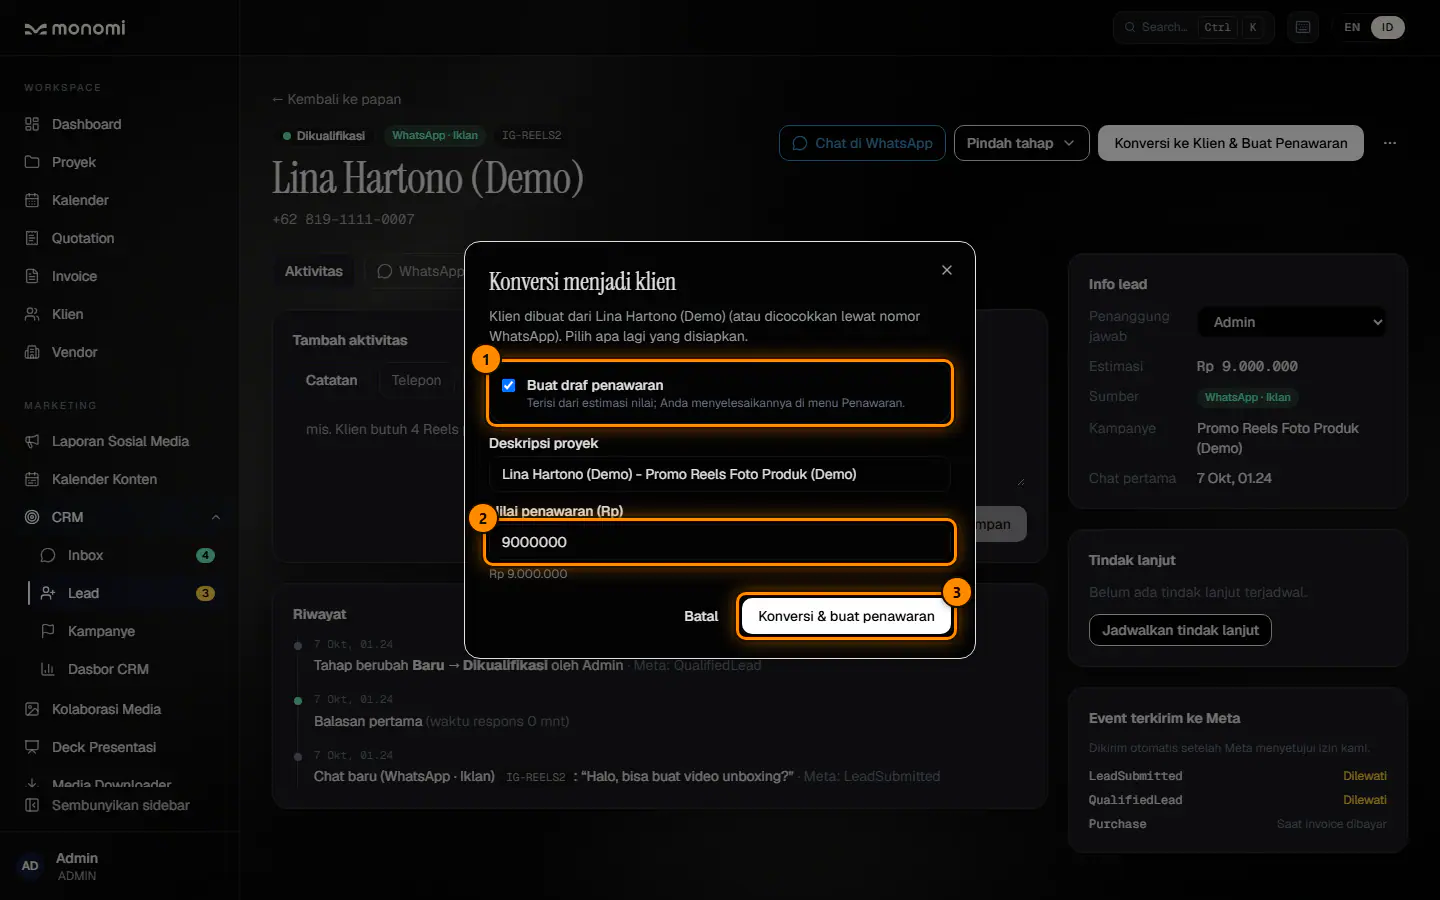
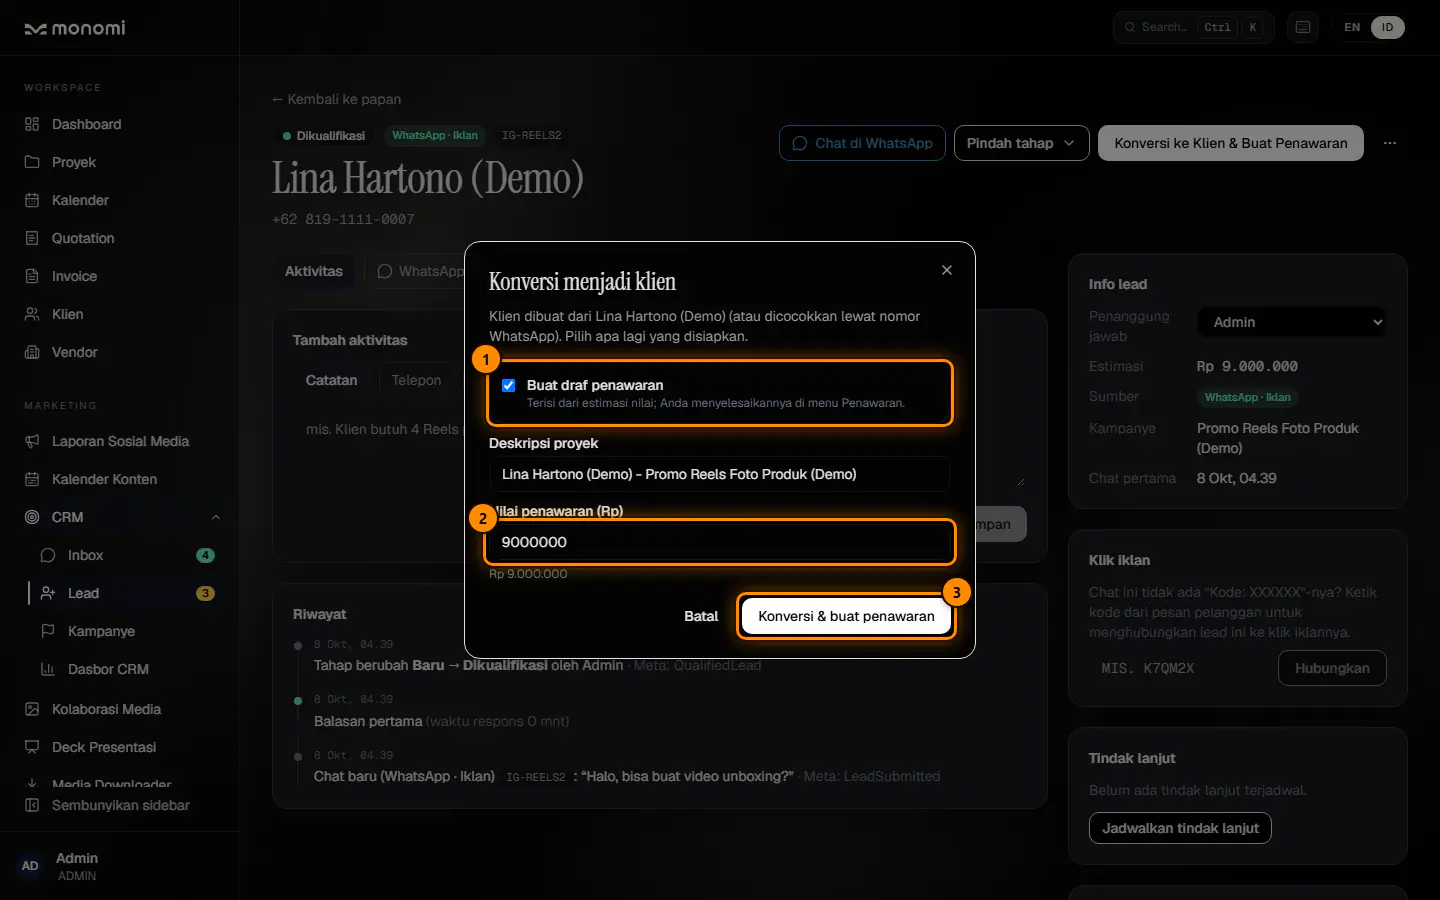
feat(guides): recapture outdated screenshots, add pictures to text-only CRM and setup steps
- recaptured crm-leads-whatsapp (all steps), crm-whatsapp-inbox/tab-lead, konten-monomi (klien-monomi, planner-monomi), portal-klien (kartu, tambah-kontak, aktif-undang, dilihat-klien), membaca-laporan/daftar, klien-baru (riwayat, riwayat-invoice), dashboard-navigasi/menu (CRM group and collapse button visible), pintasan-keyboard/bantuan (CRM shortcuts) and laporan-bulanan/bagian-data (4th mode "Ambil dari Instagram")
- new steps with screenshots: crm-leads-whatsapp link-iklan-website, kode-chat, lead-menunggu-wa; crm-whatsapp-setup pelacakan-landing-page, sinkronisasi-meta-ads (domain-verifikasi and kampanye-website stay text-only: they happen in Meta, there is no app screen)
- callout numbers added to the converted steps' id/en text
- image manifest: drop entries without a file (call-sheet/editor, jadwal-syuting/otomatis-sebelum, shot-list/editor) and the unreferenced dashboard-navigasi/bahasa-en

Claude-Session: https://claude.ai/code/session_01WCLH2UVTxmQDnNdwgagFuz

diff --git a/frontend/src/guides/imageManifest.ts b/frontend/src/guides/imageManifest.ts
@@ -60,10 +60,6 @@ export const guideImageManifest: Partial<Record<string, { w: number; h: number }
     "w": 1280,
     "h": 820
   },
-  "call-sheet/editor": {
-    "w": 1280,
-    "h": 820
-  },
   "call-sheet/info": {
     "w": 1280,
     "h": 820
@@ -100,7 +96,19 @@ export const guideImageManifest: Partial<Record<string, { w: number; h: number }
     "w": 1440,
     "h": 900
   },
+  "crm-leads-whatsapp/kode-chat": {
+    "w": 1440,
+    "h": 900
+  },
   "crm-leads-whatsapp/konversi": {
+    "w": 1440,
+    "h": 900
+  },
+  "crm-leads-whatsapp/lead-menunggu-wa": {
+    "w": 1440,
+    "h": 900
+  },
+  "crm-leads-whatsapp/link-iklan-website": {
     "w": 1440,
     "h": 900
   },
@@ -200,6 +208,14 @@ export const guideImageManifest: Partial<Record<string, { w: number; h: number }
     "w": 1440,
     "h": 900
   },
+  "crm-whatsapp-setup/pelacakan-landing-page": {
+    "w": 1440,
+    "h": 900
+  },
+  "crm-whatsapp-setup/sinkronisasi-meta-ads": {
+    "w": 1440,
+    "h": 900
+  },
   "crm-whatsapp-setup/tidak-valid": {
     "w": 1440,
     "h": 900
@@ -212,17 +228,13 @@ export const guideImageManifest: Partial<Record<string, { w: number; h: number }
     "w": 1280,
     "h": 820
   },
-  "dashboard-navigasi/bahasa-en": {
-    "w": 1280,
-    "h": 820
-  },
   "dashboard-navigasi/dashboard": {
     "w": 1280,
     "h": 820
   },
   "dashboard-navigasi/menu": {
     "w": 1280,
-    "h": 820
+    "h": 1680
   },
   "dashboard-navigasi/palet": {
     "w": 1280,
@@ -341,10 +353,6 @@ export const guideImageManifest: Partial<Record<string, { w: number; h: number }
     "h": 820
   },
   "jadwal-syuting/otomatis": {
-    "w": 1280,
-    "h": 820
-  },
-  "jadwal-syuting/otomatis-sebelum": {
     "w": 1280,
     "h": 820
   },
@@ -829,10 +837,6 @@ export const guideImageManifest: Partial<Record<string, { w: number; h: number }
     "h": 820
   },
   "shot-list/daftar": {
-    "w": 1280,
-    "h": 820
-  },
-  "shot-list/editor": {
     "w": 1280,
     "h": 820
   },

diff --git a/frontend/src/guides/staff/admin.ts b/frontend/src/guides/staff/admin.ts
@@ -16,17 +16,17 @@ export const adminGuides: GuideDef[] = [
   {
     slug: 'crm-whatsapp-setup', audience: 'staff', topic: 'admin', icon: ShieldCheck, minutes: 8, adminOnly: true,
     openHref: '/crm/settings',
-    steps: steps('crm-whatsapp-setup', [
-      ['aturan-keselamatan', '/crm/settings'], ['lokasi-token', '/crm/settings'], ['kartu-status', '/crm/settings'],
-      ['mati', '/crm/settings'], ['belum-lengkap', '/crm/settings'], ['tidak-valid', '/crm/settings'],
-      ['webhook', '/crm/settings'], ['capi', '/crm/settings'], ['hubungkan', '/crm/settings'],
-    ]).concat([
-      // text-only steps (no screenshot): landing-page tracking
-      { id: 'pelacakan-landing-page', href: '/crm/settings' },
-      { id: 'sinkronisasi-meta-ads', href: '/crm/settings' },
+    steps: [
+      ...steps('crm-whatsapp-setup', [
+        ['aturan-keselamatan', '/crm/settings'], ['lokasi-token', '/crm/settings'], ['kartu-status', '/crm/settings'],
+        ['mati', '/crm/settings'], ['belum-lengkap', '/crm/settings'], ['tidak-valid', '/crm/settings'],
+        ['webhook', '/crm/settings'], ['capi', '/crm/settings'], ['hubungkan', '/crm/settings'],
+        ['pelacakan-landing-page', '/crm/settings'], ['sinkronisasi-meta-ads', '/crm/settings'],
+      ]),
+      // text-only steps: they happen in Meta Business Settings / Ads Manager, there is no screen of this app to show
       { id: 'domain-verifikasi', href: '/crm/settings' },
       { id: 'kampanye-website', href: '/crm/campaigns' },
-    ]),
+    ],
   },
   {
     // Every table is rendered from src/shortcuts/registry.ts, so it cannot drift from the app.

diff --git a/frontend/src/guides/staff/marketing.ts b/frontend/src/guides/staff/marketing.ts
@@ -55,18 +55,12 @@ export const marketingGuides: GuideDef[] = [
   {
     slug: 'crm-leads-whatsapp', audience: 'staff', topic: 'marketing', icon: Target, minutes: 12, adminOnly: true,
     openHref: '/crm/leads',
-    steps: [
-      ...steps('crm-leads-whatsapp', [['kampanye', '/crm/campaigns'], ['pesan-iklan', '/crm/campaigns']]),
-      // text-only steps (no screenshot): landing-page tracking
-      { id: 'link-iklan-website', href: '/crm/campaigns' },
-      ...steps('crm-leads-whatsapp', [['biaya-iklan', '/crm/campaigns'], ['tambah-lead', '/crm/leads']]),
-      { id: 'kode-chat', href: '/crm/leads' },
-      { id: 'lead-menunggu-wa', href: '/crm/leads' },
-      ...steps('crm-leads-whatsapp', [
-        ['papan', '/crm/leads'], ['daftar', '/crm/leads'], ['tindak-lanjut', '/crm/leads'],
-        ['pindah-tahap', '/crm/leads'], ['konversi', '/crm/leads'], ['hasil', '/crm/leads'], ['dasbor', '/crm/dashboard'],
-      ]),
-    ],
+    steps: steps('crm-leads-whatsapp', [
+      ['kampanye', '/crm/campaigns'], ['pesan-iklan', '/crm/campaigns'], ['link-iklan-website', '/crm/campaigns'],
+      ['biaya-iklan', '/crm/campaigns'], ['tambah-lead', '/crm/leads'], ['kode-chat', '/crm/leads'],
+      ['lead-menunggu-wa', '/crm/leads'], ['papan', '/crm/leads'], ['daftar', '/crm/leads'], ['tindak-lanjut', '/crm/leads'],
+      ['pindah-tahap', '/crm/leads'], ['konversi', '/crm/leads'], ['hasil', '/crm/leads'], ['dasbor', '/crm/dashboard'],
+    ]),
   },
   {
     slug: 'crm-whatsapp-inbox', audience: 'staff', topic: 'marketing', icon: MessageCircle, minutes: 9, adminOnly: true,
